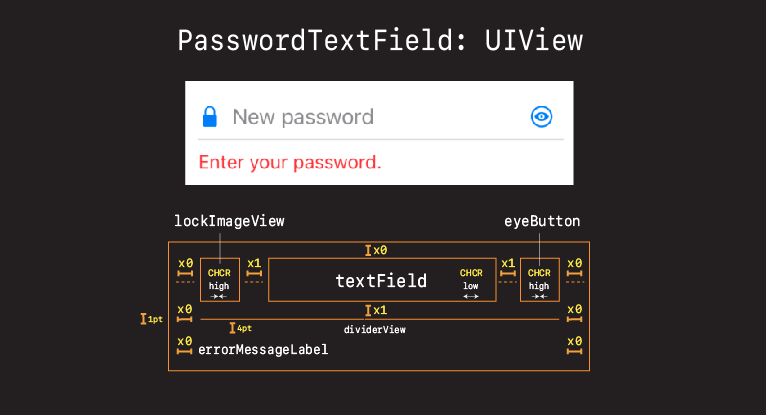
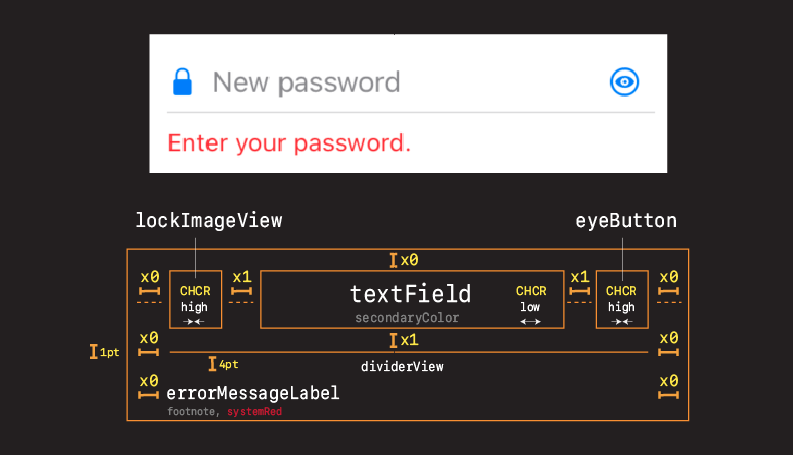
added more password elements

Changed region(s): [[0.0901, 0.0578, 0.8708, 0.9253]]

diff --git a/Password-Reset/Final-Solution/Password/Password/PasswordTextField.swift b/Password-Reset/Final-Solution/Password/Password/PasswordTextField.swift
@@ -81,7 +81,7 @@ extension PasswordTextField {
 
 
         dividerView.translatesAutoresizingMaskIntoConstraints = false
-        dividerView.backgroundColor = .quaternaryLabel
+        dividerView.backgroundColor = .separator
 
         errorMessageLabel.translatesAutoresizingMaskIntoConstraints = false
         errorMessageLabel.textColor = .systemRed

diff --git a/Password-Reset/2-PasswordTextField/README.md b/Password-Reset/2-PasswordTextField/README.md
@@ -1,6 +1,6 @@
 # Creating the PasswordTextField
 
-![](images/0.png)
+![](images/3.png)
 
 ## Challenge 🕹
 
@@ -105,7 +105,7 @@ OK. Now we are ready to think about how to transform this orange box into a cool
 Let's look at a couple of options on how we could layout this design.
 
 
-## Laying out the elements
+## Doing the layout
 
 Grab your piece of paper where you did you initial design earlier, and reference it as we go through some different design options here (note to self - pull out iPad and draw).
 
@@ -122,7 +122,7 @@ Now don't worry if your hand drawn images doesn't look exactly like this. I got 
 
 But I choose this layout because I felt I needed a lot of control over where every elements was placed. Let's lay it out.
 
-### lockImageView
+### Adding the lockImageView
 
 **PasswordTextField**
 
@@ -148,7 +148,7 @@ class PasswordTextField: UIView {
 
 OK - not a bad start. Let's next work in the text field.
 
-### textField
+### Adding the textField
 
 The text field is the crux of this view. It should really be the center, and these images and buttons should center off it. Let's pin it to the top, and then adjust our image view so it aligns along the y-axis in the middle.
 
@@ -209,7 +209,7 @@ class ViewController: UIViewController {
 
 - Discussion. Talk about the initialization of variables in constructors.
 
-### Challenge 🕹 - Add the eye button
+### Challenge 🕹 - Adding the eye button
 
 See if you can add a plain button to the right of the text field.
 
@@ -249,11 +249,84 @@ extension PasswordTextField {
 
 ![](images/6.png)
 
-OK not bad. Got some image compression going on here. If you were working with a junior developer at this point and they asked you what was going on here what would you say?
+### Fixing the CHCR
 
-- Key words
-- Key concepts
-- How to fix
+OK not bad. Got some image compression going on here. If you were working with a junior developer and they asked you what was going on here what would you say?
 
-U R HERE
+- Explain CHCR.
+- Explain what is going on here.
+- Share the solution.
+
+```swift
+// CHCR
+lockImageView.setContentHuggingPriority(UILayoutPriority.defaultHigh, for: .horizontal)
+textField.setContentHuggingPriority(UILayoutPriority.defaultLow, for: .horizontal)
+eyeButton.setContentHuggingPriority(UILayoutPriority.defaultHigh, for: .horizontal)
+```
+
+![](images/7.png)
+
+### Challenge 🕹 Adding the divider
+
+See if you can add this `dividerView` as a `UIView`.
+
+Make it:
+
+- `1pt` height
+- Flush `leading` and `trailing` to edge of view
+- `8pts` (1x) underneath `textField`
+-  `backgroundColor = separator`
+
+
+### Solution ✅
+
+**PasswordTextField**
+
+```swift
+let dividerView = UIView()
+
+dividerView.translatesAutoresizingMaskIntoConstraints = false
+dividerView.backgroundColor = .separator
+
+addSubview(dividerView)
+
+// divider
+NSLayoutConstraint.activate([
+    dividerView.leadingAnchor.constraint(equalTo: leadingAnchor),
+    dividerView.trailingAnchor.constraint(equalTo: trailingAnchor),
+    dividerView.heightAnchor.constraint(equalToConstant: 1),
+    bottomAnchor.constraint(equalToSystemSpacingBelow: dividerView.topAnchor, multiplier: 1)
+])
+
+override var intrinsicContentSize: CGSize {
+    return CGSize(width: 200, height: 50)
+}
+```
+
+### Choosing the right colors 🌈
+
+Explain how you want to use semantically defined colors over system colors when styling your elements and controls.
+
+See [this](https://github.com/jrasmusson/ios-starter-kit/blob/master/basics/Color/README.md) color guide.
+
+### Challenge 🕹 Adding the error label
+
+See if you can add the error label:
+
+- `4pts` beneath the `dividerView`
+- Flush `leading` and `trailing` edges
+- Preferred font `footnote`
+- `textColor` = `systemRed`
+
+### Solution ✅
+
+## Embedding in a stack view
+
+OK this is looking pretty good. But looking ahead a bit it would be nice if we could embed this in a stack view.
+
+Stack views are nice because this give you nice equal spacing while minimizing the number of required auto layout constraints.
+
+### Links that help
+
+- [Colors](https://github.com/jrasmusson/ios-starter-kit/blob/master/basics/Color/README.md)
 
